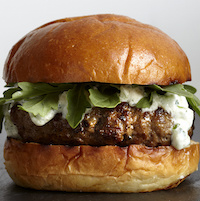
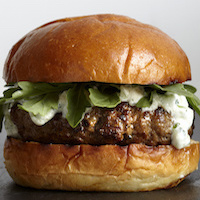
fixed layout for main index page which was messed up due to one pic wrong size.

diff --git a/public/index.html b/public/index.html
@@ -91,10 +91,8 @@
         </div>
     </header>
 
-  <script type="text/x-handlebars" data-template-name="foods">
+  <script type="text/x-handlebars" data-template-name="foods/index">
 
-    <!-- Food Section -->
-    <section id="food">
         <div class="container">
             <div class="row">
                 <div class="col-lg-12 text-center">
@@ -107,8 +105,9 @@
                 </div>
                 {{#each item in model itemController="food"}}
                     {{#if item.isAppetizer}}
+                    {{#if item.active}}
                         <div class="col-md-4 col-sm-6 menu-item">
-                            <a href="#menuModal" class="menu-link" data-toggle="modal">
+                            <a {{bind-attr href=item.menuModalLink}} class="menu-link" data-toggle="modal">
                                 <div class="menu-hover">
                                     <div class="menu-hover-content">
                                         <i class="fa fa-plus fa-3x"></i>
@@ -134,6 +133,7 @@
                                 </center>
                             </div>
                         </div>
+                    {{/if}}
                     {{/if}}
                 {{/each}}
             </div>
@@ -143,8 +143,9 @@
                 </div>
                 {{#each item in model itemController="food"}}
                     {{#if item.isSalad}}
+                    {{#if item.active}}
                         <div class="col-md-4 col-sm-6 menu-item">
-                            <a href="#menuModal" class="menu-link" data-toggle="modal">
+                            <a {{bind-attr href=item.menuModalLink}} class="menu-link" data-toggle="modal">
                                 <div class="menu-hover">
                                     <div class="menu-hover-content">
                                         <i class="fa fa-plus fa-3x"></i>
@@ -170,6 +171,7 @@
                                 </center>
                             </div>
                         </div>
+                    {{/if}}
                     {{/if}}
                 {{/each}}
             </div>
@@ -179,8 +181,9 @@
                 </div>
                 {{#each item in model itemController="food"}}
                     {{#if item.isEntree}}
+                    {{#if item.active}}
                         <div class="col-md-4 col-sm-6 menu-item">
-                            <a href="#menuModal" class="menu-link" data-toggle="modal">
+                            <a {{bind-attr href=item.menuModalLink}} class="menu-link" data-toggle="modal">
                                 <div class="menu-hover">
                                     <div class="menu-hover-content">
                                         <i class="fa fa-plus fa-3x"></i>
@@ -207,6 +210,7 @@
                             </div>
                         </div>
                     {{/if}}
+                    {{/if}}
                 {{/each}}
             </div>
             <div class="row">
@@ -215,8 +219,9 @@
                 </div>
                 {{#each item in model itemController="food"}}
                     {{#if item.isDessert}}
+                    {{#if item.active}}
                         <div class="col-md-4 col-sm-6 menu-item">
-                            <a href="#menuModal" class="menu-link" data-toggle="modal">
+                            <a {{bind-attr href=item.menuModalLink}} class="menu-link" data-toggle="modal">
                                 <div class="menu-hover">
                                     <div class="menu-hover-content">
                                         <i class="fa fa-plus fa-3x"></i>
@@ -242,6 +247,7 @@
                                 </center>
                             </div>
                         </div>
+                    {{/if}}
                     {{/if}}
                 {{/each}}
             </div>
@@ -262,8 +268,9 @@
                 </div>
                 {{#each item in model itemController="food"}}
                     {{#if item.isAlcoholicDrink}}
+                    {{#if item.active}}
                         <div class="col-md-4 col-sm-6 menu-item">
-                            <a href="#menuModal" class="menu-link" data-toggle="modal">
+                            <a {{bind-attr href=item.menuModalLink}} class="menu-link" data-toggle="modal">
                                 <div class="menu-hover">
                                     <div class="menu-hover-content">
                                         <i class="fa fa-plus fa-3x"></i>
@@ -289,6 +296,7 @@
                                 </center>
                             </div>
                         </div>
+                    {{/if}}
                     {{/if}}
                 {{/each}}
             </div>
@@ -298,8 +306,9 @@
                 </div>
                 {{#each item in model itemController="food"}}
                     {{#if item.isNonAlcoholicDrink}}
+                    {{#if item.active}}
                         <div class="col-md-4 col-sm-6 menu-item">
-                            <a href="#menuModal" class="menu-link" data-toggle="modal">
+                            <a {{bind-attr href=item.menuModalLink}} class="menu-link" data-toggle="modal">
                                 <div class="menu-hover">
                                     <div class="menu-hover-content">
                                         <i class="fa fa-plus fa-3x"></i>
@@ -326,9 +335,26 @@
                             </div>
                         </div>
                     {{/if}}
+                    {{/if}}
                 {{/each}}
             </div>
         </div>
+</script>
+
+  <script type="text/x-handlebars" data-template-name="foods">
+ 
+    <!-- Food Section -->
+    <section id="food">
+        <center>
+        <div>
+        {{#link-to "foods.index" class="btn btn-xl" activeClass="btn btn-xl-selected"}}All{{/link-to}}&nbsp;&nbsp;
+        {{#link-to "foods.glutenfree" class="btn btn-xl" activeClass="btn btn-xl-selected"}}Gluten-Free{{/link-to}}&nbsp;&nbsp;
+        {{#link-to "foods.vegetarian" class="btn btn-xl" activeClass="btn btn-xl-selected"}}Vegetarian{{/link-to}}&nbsp;&nbsp;
+        {{#link-to "foods.vegan" class="btn btn-xl" activeClass="btn btn-xl-selected"}}Vegan{{/link-to}}
+        <br/><br/>
+        </div>
+        </center>
+   {{outlet}}
     </section>
 
     <!-- Social Media Section -->
@@ -380,35 +406,46 @@
 
     <!-- Modals -->
 
-    <!-- Menu Modal -->
-    <div class="menu-modal modal fade" id="menuModal" tabindex="-1" role="dialog" aria-hidden="true">
-        <div class="modal-content">
-            <div class="close-modal" data-dismiss="modal">
-                <div class="lr">
-                    <div class="rl">
+    {{#each item in model itemController="food"}}
+        <!-- Menu Modal -->
+        <div class="menu-modal modal fade" {{bind-attr id=item.menuModalId}} tabindex="-1" role="dialog" aria-hidden="true">
+            <div class="modal-content">
+                <div class="close-modal" data-dismiss="modal">
+                    <div class="lr">
+                        <div class="rl">
+                        </div>
                     </div>
                 </div>
-            </div>
-            <div class="container">
-                <div class="row">
-                    <div class="col-lg-8 col-lg-offset-2">
-                        <div class="modal-body">
-                            <h2>Food/Drink Name</h2>
-                            <p class="text-muted">Description about the item here.</p>
-                            <img class="img-responsive img-centered" src="img/menu/placeholder.jpg" alt="">
-                            <p>Any other info?</p>
-                            <ul class="list-inline">
-                                <li>Gluten Free</li>
-                                <li>Vegetarian</li>
-                                <li>Vegan</li>
-                            </ul>
-                            <button type="button" class="btn btn-primary" data-dismiss="modal"><i class="fa fa-times"></i> Close</button>
+                <div class="container">
+                    <div class="row">
+                        <div class="col-lg-8 col-lg-offset-2">
+                            <div class="modal-body">
+                                <h2>{{item.title}}</h2>
+                                <p class="text-muted">{{item.description}}</p>
+                                <ul class="list-inline">
+                    {{#if item.gluten_free}}
+                                    <li><b>Gluten Free</b></li>
+                    {{/if}}
+                    {{#if item.vegetarian}}
+                                    <li><b>Vegetarian</b></li>
+                    {{/if}}
+                    {{#if item.vegan}}
+                                    <li><b>Vegan</b></li>
+                    {{/if}}
+                                </ul>
+                                <div>
+                                    <button type="button" class="btn btn-primary" data-dismiss="modal"><i class="fa fa-plus"></i> Order</button>
+                                    <button type="button" class="btn btn-primary" data-dismiss="modal"><i class="fa fa-times"></i> Close</button>                                
+                                </div>
+                                <br/>
+                                <img class="img-responsive img-centered" {{bind-attr src=item.image_url}} alt="">
+                            </div>
                         </div>
                     </div>
                 </div>
             </div>
         </div>
-    </div>
+    {{/each}}
 
     <!-- Call Button Modal -->
     <div class="menu-modal modal fade" id="callButtonModal" tabindex="-1" role="dialog" aria-hidden="true">

diff --git a/public/css/agency.css b/public/css/agency.css
@@ -176,6 +176,58 @@ fieldset[disabled] .btn-xl.active {
     background-color: #fff;
 }
 
+.btn-xl-selected {
+    padding: 20px 40px;
+    border-color: orangered;
+    border-radius: 3px;
+    text-transform: uppercase;
+    font-family: Montserrat,"Helvetica Neue",Helvetica,Arial,sans-serif;
+    font-size: 18px;
+    font-weight: 700;
+    color: #fff;
+    background-color: orangered;
+}
+
+.btn-xl-selected:hover,
+.btn-xl-selected:focus,
+.btn-xl-selected:active,
+.btn-xl-selected.active,
+.open .dropdown-toggle.btn-xl-selected {
+    border-color: orangered;
+    color: #fff;
+    background-color: orangered;
+}
+
+.btn-xl-selected:active,
+.btn-xl-selected.active,
+.open .dropdown-toggle.btn-xl-selected {
+    background-image: none;
+}
+
+.btn-xl-selected.disabled,
+.btn-xl-selected[disabled],
+fieldset[disabled] .btn-xl-selected,
+.btn-xl-selected.disabled:hover,
+.btn-xl-selected[disabled]:hover,
+fieldset[disabled] .btn-xl-selected:hover,
+.btn-xl-selected.disabled:focus,
+.btn-xl-selected[disabled]:focus,
+fieldset[disabled] .btn-xl-selected:focus,
+.btn-xl-selected.disabled:active,
+.btn-xl-selected[disabled]:active,
+fieldset[disabled] .btn-xl-selected:active,
+.btn-xl-selected.disabled.active,
+.btn-xl-selected[disabled].active,
+fieldset[disabled] .btn-xl-selected.active {
+    border-color: orangered;
+    background-color: orangered;
+}
+
+.btn-xl-selected .badge {
+    color: orangered;
+    background-color: #fff;
+}
+
 .navbar-default {
     border-color: transparent;
     background-color: #222;
@@ -366,7 +418,7 @@ section h3.section-subheading {
     display: block;
     position: relative;
     margin: 0 auto;
-    max-width: 400px;
+    max-width: 300px;
 }
 
 .menu-item .menu-link .menu-hover {

diff --git a/public/js/emberControllers/foodController.js b/public/js/emberControllers/foodController.js
@@ -35,11 +35,15 @@ App.FoodController = Ember.ObjectController.extend({
     }
   }.property('model.isCompleted'),
 
+  // Category properties for Ember handlebar binding:  
   isAppetizer:         function () { return this.get('model').get('category') == 'Appetizer';   }.property('model.isAppetizer'),
   isSalad:             function () { return this.get('model').get('category') == 'Salad';       }.property('model.isSalad'),
   isEntree:            function () { return this.get('model').get('category') == 'Entree';      }.property('model.isEntree'),
   isDessert:           function () { return this.get('model').get('category') == 'Dessert';     }.property('model.isDessert'),
   isAlcoholicDrink:    function () { return this.get('model').get('category') == 'Alcohol';     }.property('model.isAlcoholicDrink'),
-  isNonAlcoholicDrink: function () { return this.get('model').get('category') == 'Non_Alcohol'; }.property('model.isNonAlcoholicDrink')
+  isNonAlcoholicDrink: function () { return this.get('model').get('category') == 'Non_Alcohol'; }.property('model.isNonAlcoholicDrink'),
 
+  menuModalId:         function () { return "menuModal" + this.get('model').get('id');          }.property('model.menuModalId'),
+  menuModalLink:       function () { return "#menuModal" + this.get('model').get('id');         }.property('model.menuModalLink')
+   
 });

diff --git a/public/js/router.js b/public/js/router.js
@@ -3,6 +3,9 @@ App.Router.map(function () {
     // additional child routes will go here later
     this.route('active');
     this.route('completed');
+    this.route('glutenfree');
+    this.route('vegetarian');
+    this.route('vegan');
   });
 });
 
@@ -15,6 +18,39 @@ App.FoodsRoute = Ember.Route.extend({
 App.FoodsIndexRoute = Ember.Route.extend({
   model: function() {
     return this.modelFor('foods');
+  }
+});
+
+App.FoodsGlutenfreeRoute = Ember.Route.extend({
+  model: function(){
+    return this.store.filter('food', function(item) {
+      return item.get('gluten_free');
+    });
+  },
+  renderTemplate: function(controller) {
+    this.render('foods/index', {controller: controller});
+  }
+});
+
+App.FoodsVegetarianRoute = Ember.Route.extend({
+  model: function(){
+    return this.store.filter('food', function(item) {
+      return item.get('vegetarian');
+    });
+  },
+  renderTemplate: function(controller) {
+    this.render('foods/index', {controller: controller});
+  }
+});
+
+App.FoodsVeganRoute = Ember.Route.extend({
+  model: function(){
+    return this.store.filter('food', function(item) {
+      return item.get('vegan');
+    });
+  },
+  renderTemplate: function(controller) {
+    this.render('foods/index', {controller: controller});
   }
 });
 
